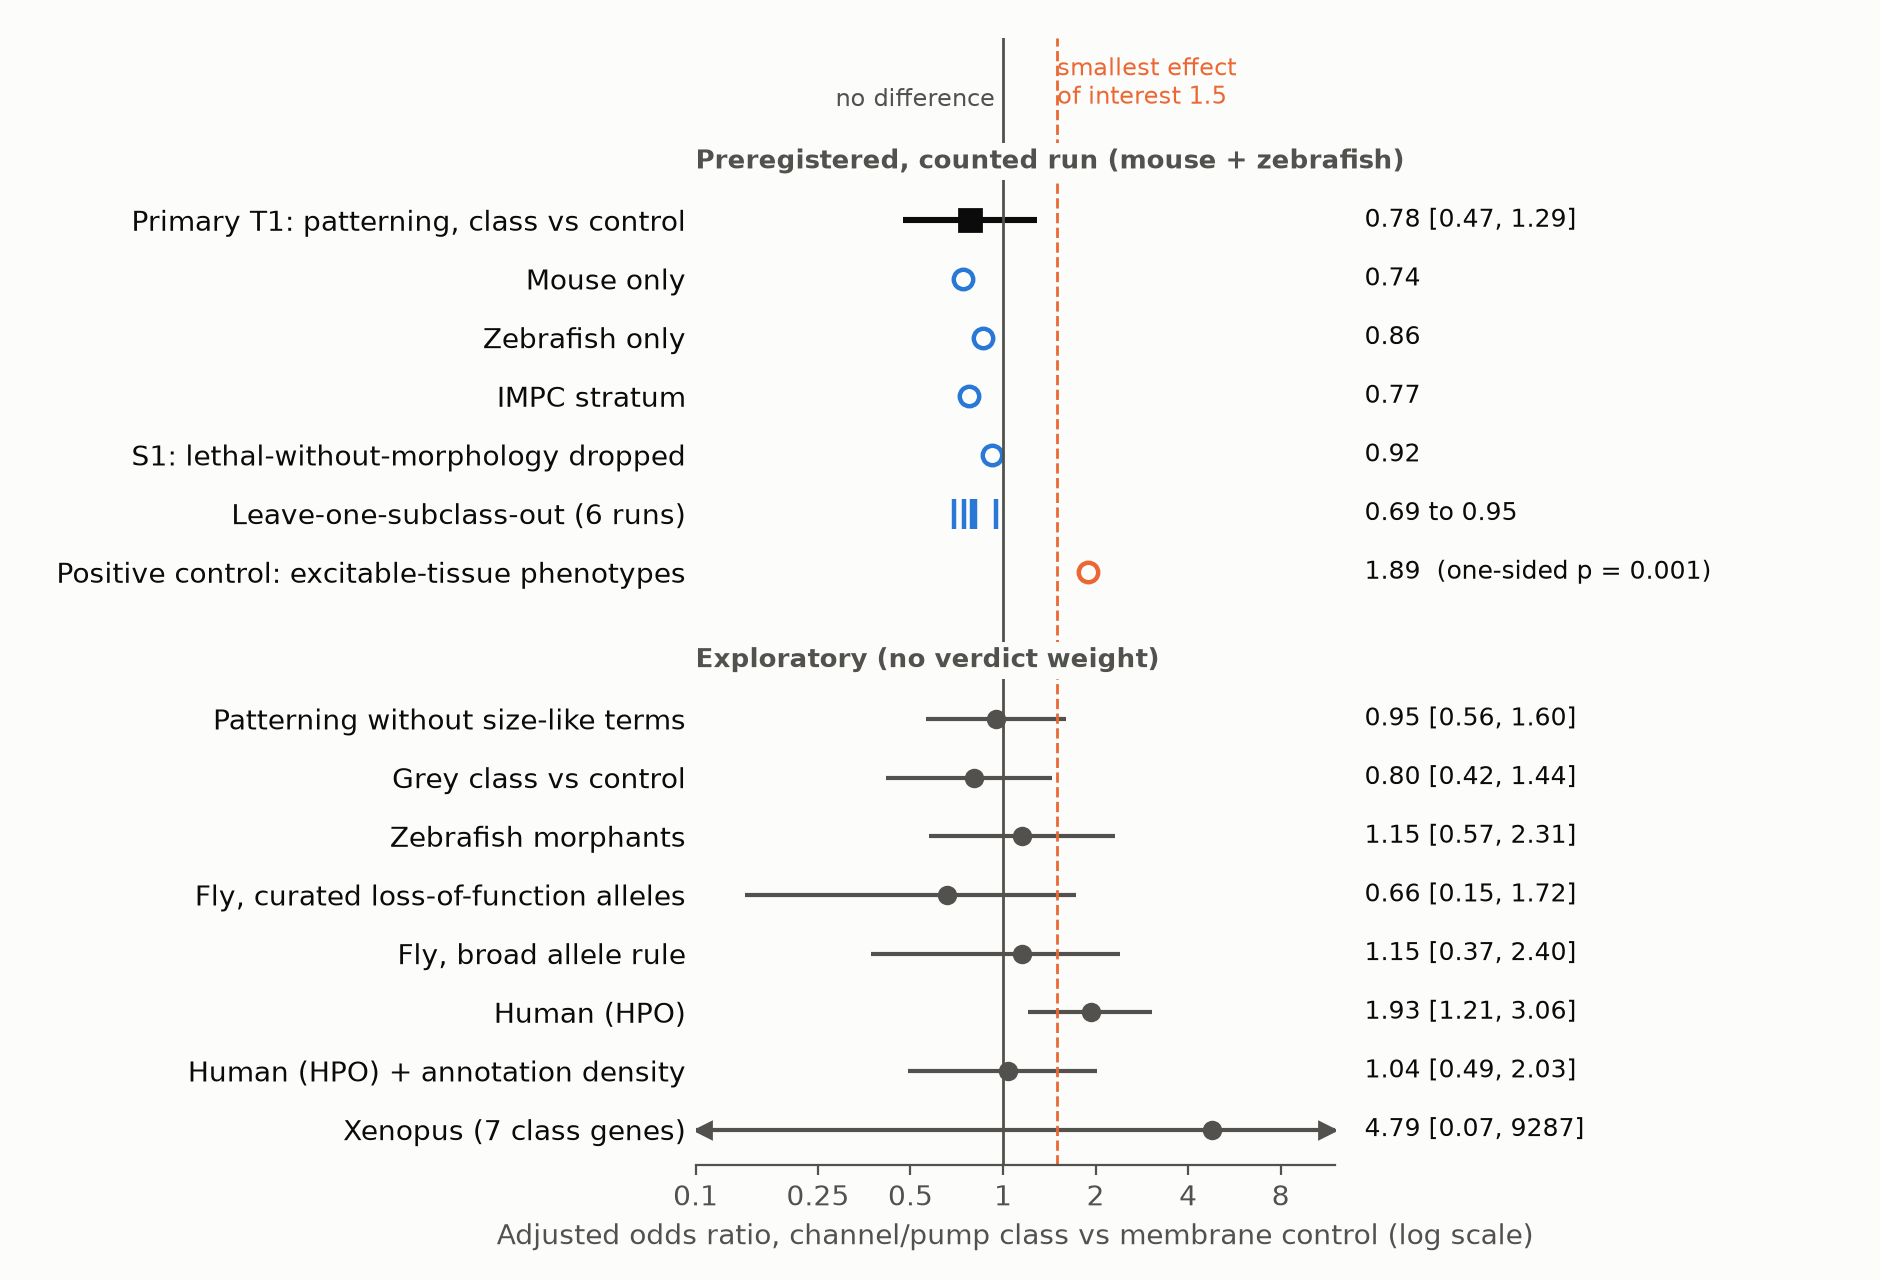
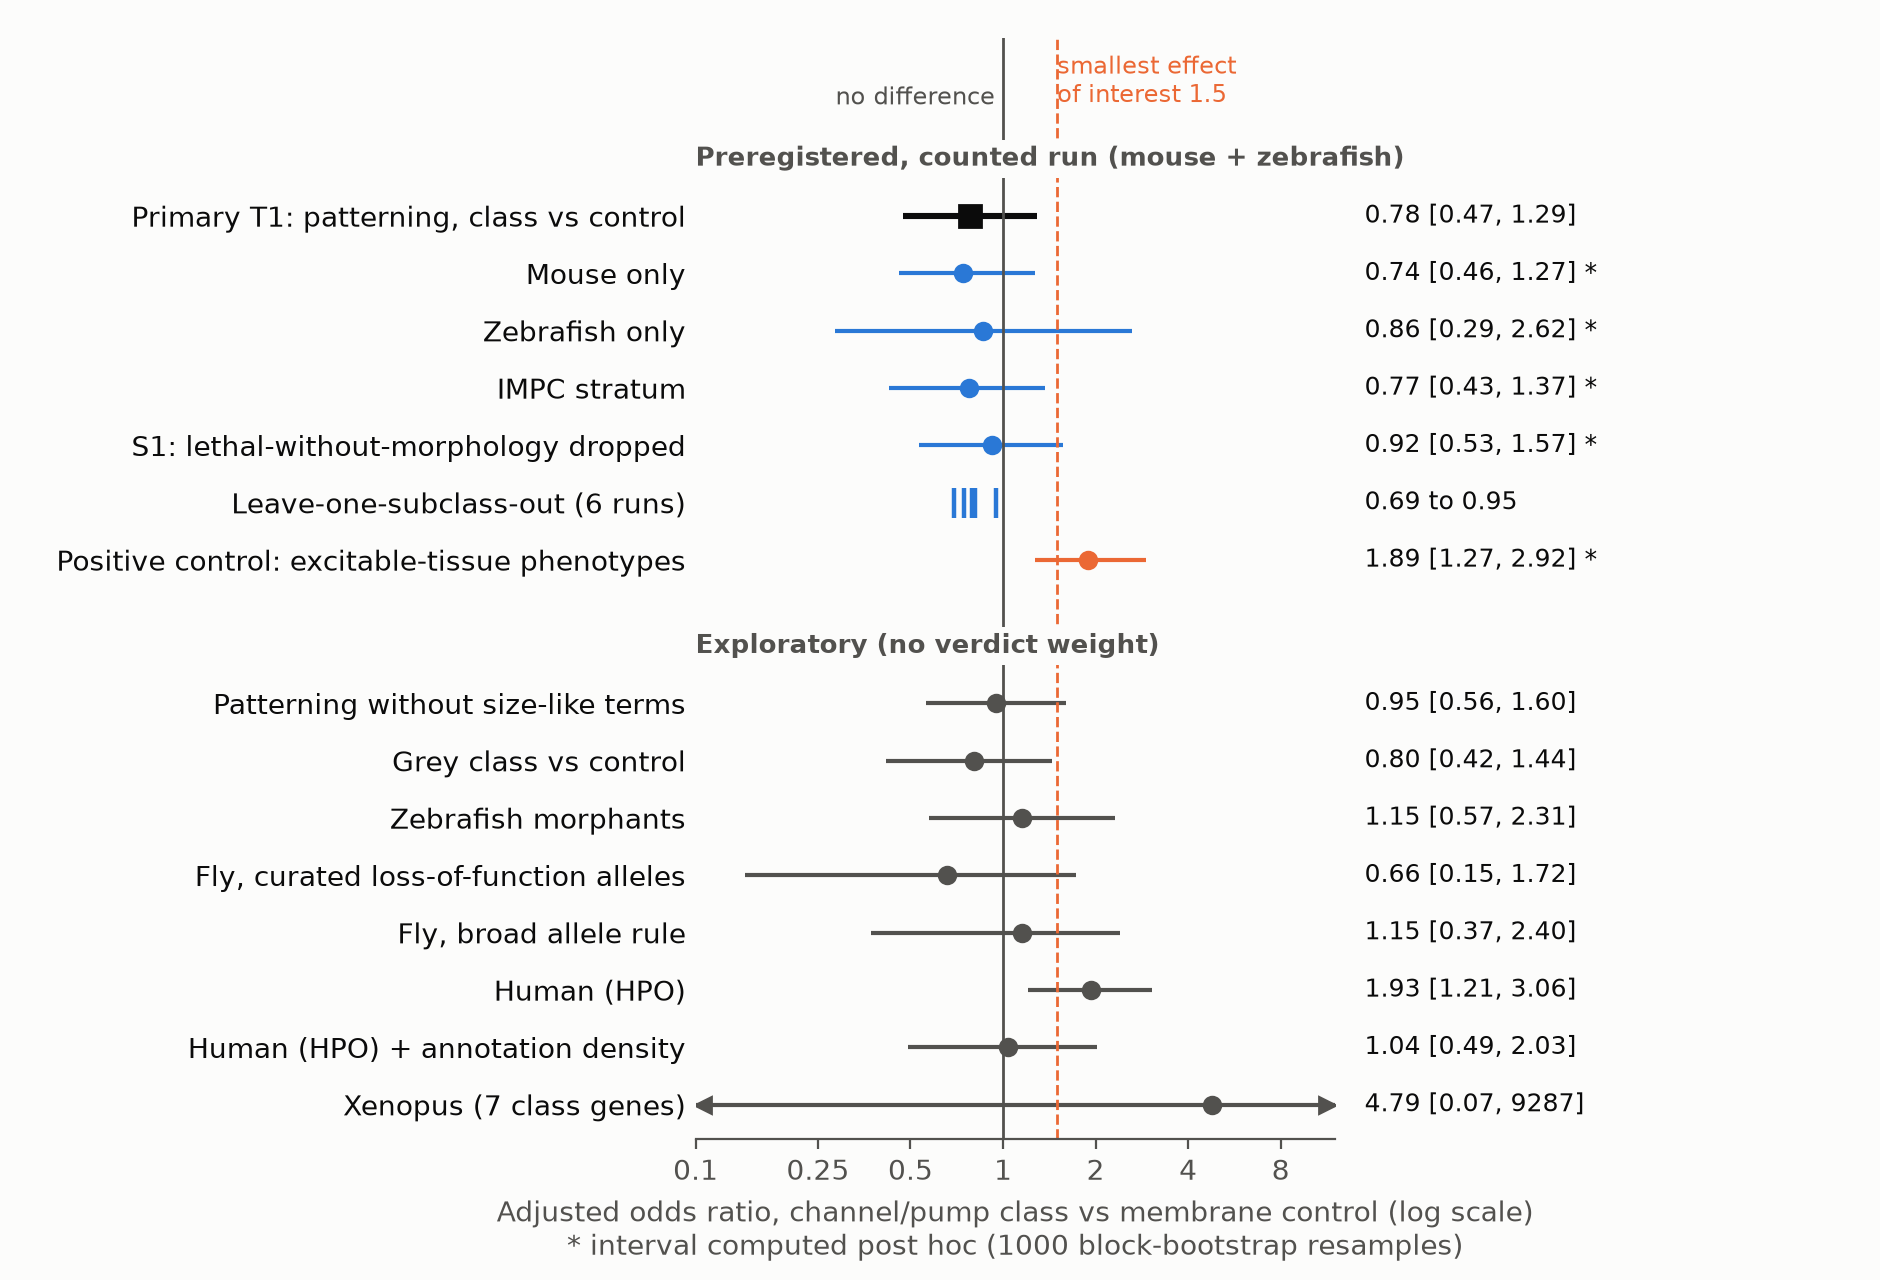
Research note draft: post hoc subset intervals in figure 1 and text

diff --git a/drafts/note_db_null/make_figs.py b/drafts/note_db_null/make_figs.py
@@ -3,6 +3,7 @@
 
 Every number is read from planner-readable aggregate reports (no restricted or outcome file is read):
   reports/db_counted_v1.json           -> fig 1, preregistered rows (the one counted run)
+  reports/db_subset_ci_v1.json         -> fig 1, POST HOC intervals for the stratum, S1 and positive-control rows
   reports/db_explore_v1.json           -> fig 1, no-size and grey-class rows (exploratory)
   reports/db_secondary_v1.json         -> fig 1, morphant, fly, human, Xenopus rows (exploratory)
   reports/db_power_v1.json, reports/db_power_v1_brier_rule.json -> fig 2
@@ -41,6 +42,7 @@ def load(name):
 def fig1():
     c = load("db_counted_v1.json")
     e = load("db_explore_v1.json")
+    b = load("db_subset_ci_v1.json")  # post hoc, 1000 block-bootstrap resamples
     s = load("db_secondary_v1.json")
     sp = s["species"]
 
@@ -48,16 +50,18 @@ def fig1():
         return (d["or"], d["lo"], d["hi"])
 
     loso = sorted(exp(v) for v in c["or_loso"].values())
-    # (label, or, lo, hi, kind); lo/hi None = point estimate only (no interval in the counted report)
+    # (label, or, lo, hi, kind). Points for the counted-run rows come from the counted report; the intervals of
+    # the check and positive-control rows are post hoc (db_subset_ci_v1.json). Leave-one-subclass-out has none.
     rows = [
         ("head", "Preregistered, counted run (mouse + zebrafish)"),
         ("Primary T1: patterning, class vs control", exp(c["t1_logor"]), exp(c["t1_lo"]), exp(c["t1_hi"]), "primary"),
-        ("Mouse only", exp(c["or_mouse"]), None, None, "check"),
-        ("Zebrafish only", exp(c["or_zebrafish"]), None, None, "check"),
-        ("IMPC stratum", exp(c["or_impc"]), None, None, "check"),
-        ("S1: lethal-without-morphology dropped", exp(c["or_s1"]), None, None, "check"),
+        ("Mouse only", exp(c["or_mouse"]), b["mouse"]["lo"], b["mouse"]["hi"], "check"),
+        ("Zebrafish only", exp(c["or_zebrafish"]), b["zebrafish"]["lo"], b["zebrafish"]["hi"], "check"),
+        ("IMPC stratum", exp(c["or_impc"]), b["impc"]["lo"], b["impc"]["hi"], "check"),
+        ("S1: lethal-without-morphology dropped", exp(c["or_s1"]), b["s1"]["lo"], b["s1"]["hi"], "check"),
         ("Leave-one-subclass-out (6 runs)", loso, None, None, "loso"),
-        ("Positive control: excitable-tissue phenotypes", exp(c["exc_logor"]), None, None, "posctl"),
+        ("Positive control: excitable-tissue phenotypes", exp(c["exc_logor"]),
+         b["positive_control"]["lo"], b["positive_control"]["hi"], "posctl"),
         ("head", "Exploratory (no verdict weight)"),
         ("Patterning without size-like terms", *ci(e["nosize"]), "expl"),
         ("Grey class vs control", *ci(e["grey_vs_control_Y"]), "expl"),
@@ -99,6 +103,8 @@ def fig1():
             ax.plot(v, y, "s" if kind == "primary" else "o", color=col, ms=8 if kind == "primary" else 6)
             hi_txt = f2(hi) if hi < 100 else f"{hi:.0f}"
             txt = f"{f2(v)} [{f2(lo)}, {hi_txt}]"
+            if kind in ("check", "posctl"):
+                txt += " *"
         ax.text(XMAX * 1.25, y, txt, ha="left", va="center", fontsize=9, color=INK, clip_on=False)
         ticks.append(y)
         labels.append(label)
@@ -116,8 +122,9 @@ def fig1():
     ax.set_yticks(ticks)
     ax.set_yticklabels(labels)
     ax.tick_params(axis="y", length=0)
-    ax.set_xlabel("Adjusted odds ratio, channel/pump class vs membrane control (log scale)")
-    fig.subplots_adjust(left=0.37, right=0.71, top=0.97, bottom=0.09)
+    ax.set_xlabel("Adjusted odds ratio, channel/pump class vs membrane control (log scale)\n"
+                  "* interval computed post hoc (1000 block-bootstrap resamples)")
+    fig.subplots_adjust(left=0.37, right=0.71, top=0.97, bottom=0.11)
     fig.savefig(OUT / "fig1_forest.png", dpi=200)
     plt.close(fig)
 

diff --git a/drafts/note_db_null/note.md b/drafts/note_db_null/note.md
@@ -12,7 +12,7 @@ Draft date: 2026-11-10. Repository: https://github.com/MDavis3/bioelectric-bench
 
 ## Abstract
 
-Bioelectric accounts of development hold that membrane voltage patterns instruct anatomy. One cheap, class-level prediction of a strong version of this claim is that genes encoding ion channels and pumps should, when lost, produce patterning defects more often than comparable membrane proteins. We tested this in public mouse (MGI, IMPC) and zebrafish (ZFIN) loss-of-function records, with the endpoint, gene classes, covariates, code, decision rule and power simulation hashed and timestamped in a public repository before any outcome was seen by class. Among 394 channel/pump gene-by-species units and 972 matched multi-pass membrane controls, 11.4% and 11.9% had a recorded craniofacial, limb/fin, axial, somite, notochord, neural tube or left-right defect. The adjusted odds ratio was 0.78 (95% block-bootstrap interval 0.47 to 1.29), which excludes the preregistered smallest effect of interest of 1.5. A positive control on excitable-tissue phenotypes was detected in the same units (odds ratio 1.89, one-sided p = 0.001). Estimates were below 1 in each species, in the standardised IMPC stratum and in every leave-one-subclass-out run. The result removes one line of support for the idea that channels as a class are privileged for patterning. It does not test voltage state, gain-of-function alleles, pharmacology or regeneration. We also report that the decision rule was revised before unblinding because the original rule lacked power, and that an apparent human enrichment was not robust to adjustment for annotation density.
+Bioelectric accounts of development hold that membrane voltage patterns instruct anatomy. One cheap, class-level prediction of a strong version of this claim is that genes encoding ion channels and pumps should, when lost, produce patterning defects more often than comparable membrane proteins. We tested this in public mouse (MGI, IMPC) and zebrafish (ZFIN) loss-of-function records, with the endpoint, gene classes, covariates, code, decision rule and power simulation hashed and timestamped in a public repository before any outcome was seen by class. Among 394 channel/pump gene-by-species units and 972 matched multi-pass membrane controls, 11.4% and 11.9% had a recorded craniofacial, limb/fin, axial, somite, notochord, neural tube or left-right defect. The adjusted odds ratio was 0.78 (95% block-bootstrap interval 0.47 to 1.29), which excludes the preregistered smallest effect of interest of 1.5. A positive control on excitable-tissue phenotypes was detected in the same units (odds ratio 1.89, one-sided p = 0.001). Point estimates were below 1 in each species, in the standardised IMPC stratum and in every leave-one-subclass-out run. The result removes one line of support for the idea that channels as a class are privileged for patterning. It does not test voltage state, gain-of-function alleles, pharmacology or regeneration. We also report that the decision rule was revised before unblinding because the original rule lacked power, and that an apparent human enrichment was not robust to adjustment for annotation density.
 
 ## 1. Introduction
 
@@ -46,9 +46,9 @@ The test is narrow. It concerns germline loss of single genes, recorded phenotyp
 
 **Primary.** The contrast held 394 class units (297 mouse, 97 zebrafish; 199 with IMPC data) and 972 control units. Crude rates of Y were 45/394 (11.4%) and 116/972 (11.9%). T1 was 0.78 (95% interval 0.47 to 1.29; one-sided permutation p = 0.85). The upper bound is below 1.5, so the preregistered verdict is FAIL, "smallest effect of interest ruled out" (Figure 1). The interval includes 1, so this is not evidence of depletion. No fit failed to converge. Tier 2 was not assessed because the verdict was not PASS; descriptively, adding the class flag changed held-out Brier score and log-loss by about zero.
 
-**Positive control.** Excitable-tissue phenotypes were more frequent in the class (74.9% vs 60.8%; adjusted odds ratio 1.89, one-sided p = 0.001). The same units, labels and model therefore detect the textbook channel signal. This shows sensitivity for a common outcome, not necessarily for a rarer one.
+**Positive control.** Excitable-tissue phenotypes were more frequent in the class (74.9% vs 60.8%; adjusted odds ratio 1.89, one-sided p = 0.001; post hoc 95% interval 1.27 to 2.92). The same units, labels and model therefore detect the textbook channel signal. This shows sensitivity for a common outcome, not necessarily for a rarer one.
 
-**Consistency.** Point estimates were 0.74 in mouse, 0.86 in zebrafish, 0.77 in the IMPC stratum, 0.92 in S1 (which drops units recorded as lethal with no morphology record) and 0.69 to 0.95 across the six leave-one-subclass-out runs. The counted report gives no intervals for these.
+**Consistency.** Point estimates were 0.74 in mouse, 0.86 in zebrafish, 0.77 in the IMPC stratum, 0.92 in S1 (which drops units recorded as lethal with no morphology record) and 0.69 to 0.95 across the six leave-one-subclass-out runs. The counted run recorded no intervals for these, so we computed them post hoc (1,000 block-bootstrap resamples, `reports/db_subset_ci_v1.json`): mouse 0.46 to 1.27, zebrafish 0.29 to 2.62, IMPC 0.43 to 1.37, S1 0.53 to 1.57. The zebrafish interval spans 1.5, and the S1 interval just reaches it. Zebrafish alone (97 class units) therefore does not exclude the smallest effect of interest, and nor does S1. These estimates were preregistered as direction checks on the pooled result, not as separate tests, and the study was not powered for them individually.
 
 **Exploratory analyses.** None of the following carries verdict weight, and all were run after unblinding.
 
@@ -62,7 +62,7 @@ The test is narrow. It concerns germline loss of single genes, recorded phenotyp
 
 ## 4. Discussion
 
-**What is ruled out.** In mouse and zebrafish taken together, single-gene germline loss of a channel or pump does not raise the odds of a recorded patterning defect by 1.5-fold or more over other multi-pass membrane proteins. The design had high power for a twofold effect and returned estimates below 1 in every stratum.
+**What is ruled out.** In mouse and zebrafish taken together, single-gene germline loss of a channel or pump does not raise the odds of a recorded patterning defect by 1.5-fold or more over other multi-pass membrane proteins. The design had high power for a twofold effect and returned point estimates below 1 in every stratum. The exclusion of 1.5 holds for the pooled estimate, not for zebrafish taken alone.
 
 **What is not.** *Voltage state*: no membrane potential was measured. *Gain of function*: mouse records were null-only, and many reported channel patterning phenotypes, including the zebrafish fin overgrowth alleles, are gain-of-function or dominant; fin size itself was outside the endpoint. A count of available alleles showed a gain-versus-loss contrast is not feasible in MGI or ZFIN as downloaded. *Pharmacology and regeneration*: drug, ionophore and misexpression experiments, and planarian, tail, limb and fin regeneration, are absent from these records. *Compensation*: resting potential is set by many conductances, and null alleles can trigger transcriptional adaptation (Rossi et al. 2015; El-Brolosy et al. 2019). A redundant code predicts the same class-level null, and our attempt to test that was underpowered. *Specific genes*: a flat class average is compatible with a few channels having strong patterning roles.
 
@@ -78,7 +78,7 @@ Code, plans, reviews, sealed files and aggregate reports are in the public repos
 
 ![Figure 1](fig1_forest.png)
 
-**Figure 1. Adjusted odds ratios, channel/pump class versus matched membrane control.** Top: the preregistered counted run. The primary estimate is shown with its 95% block-bootstrap interval; stratum, sensitivity and leave-one-subclass-out estimates and the positive control are point estimates (open markers), because the counted report records no intervals for them. Bottom: exploratory analyses with 95% block-bootstrap intervals; secondary species use fewer covariates and no nearest-neighbour score. Dashed line: smallest effect of interest (1.5). The *Xenopus* interval extends beyond the axis.
+**Figure 1. Adjusted odds ratios, channel/pump class versus matched membrane control.** Top: the preregistered counted run. The primary estimate is shown with its preregistered 95% block-bootstrap interval (2,000 resamples). Intervals for the mouse, zebrafish, IMPC, S1 and positive-control rows (asterisks) are post hoc: the counted run recorded point estimates only, and the intervals were computed afterwards with 1,000 block-bootstrap resamples. The zebrafish and S1 intervals extend past 1.5; these rows are consistency checks, not separate tests. Leave-one-subclass-out runs are point estimates. Bottom: exploratory analyses with 95% block-bootstrap intervals; secondary species use fewer covariates and no nearest-neighbour score. Dashed line: smallest effect of interest (1.5). The *Xenopus* interval extends beyond the axis.
 
 ![Figure 2](fig2_power.png)
 
